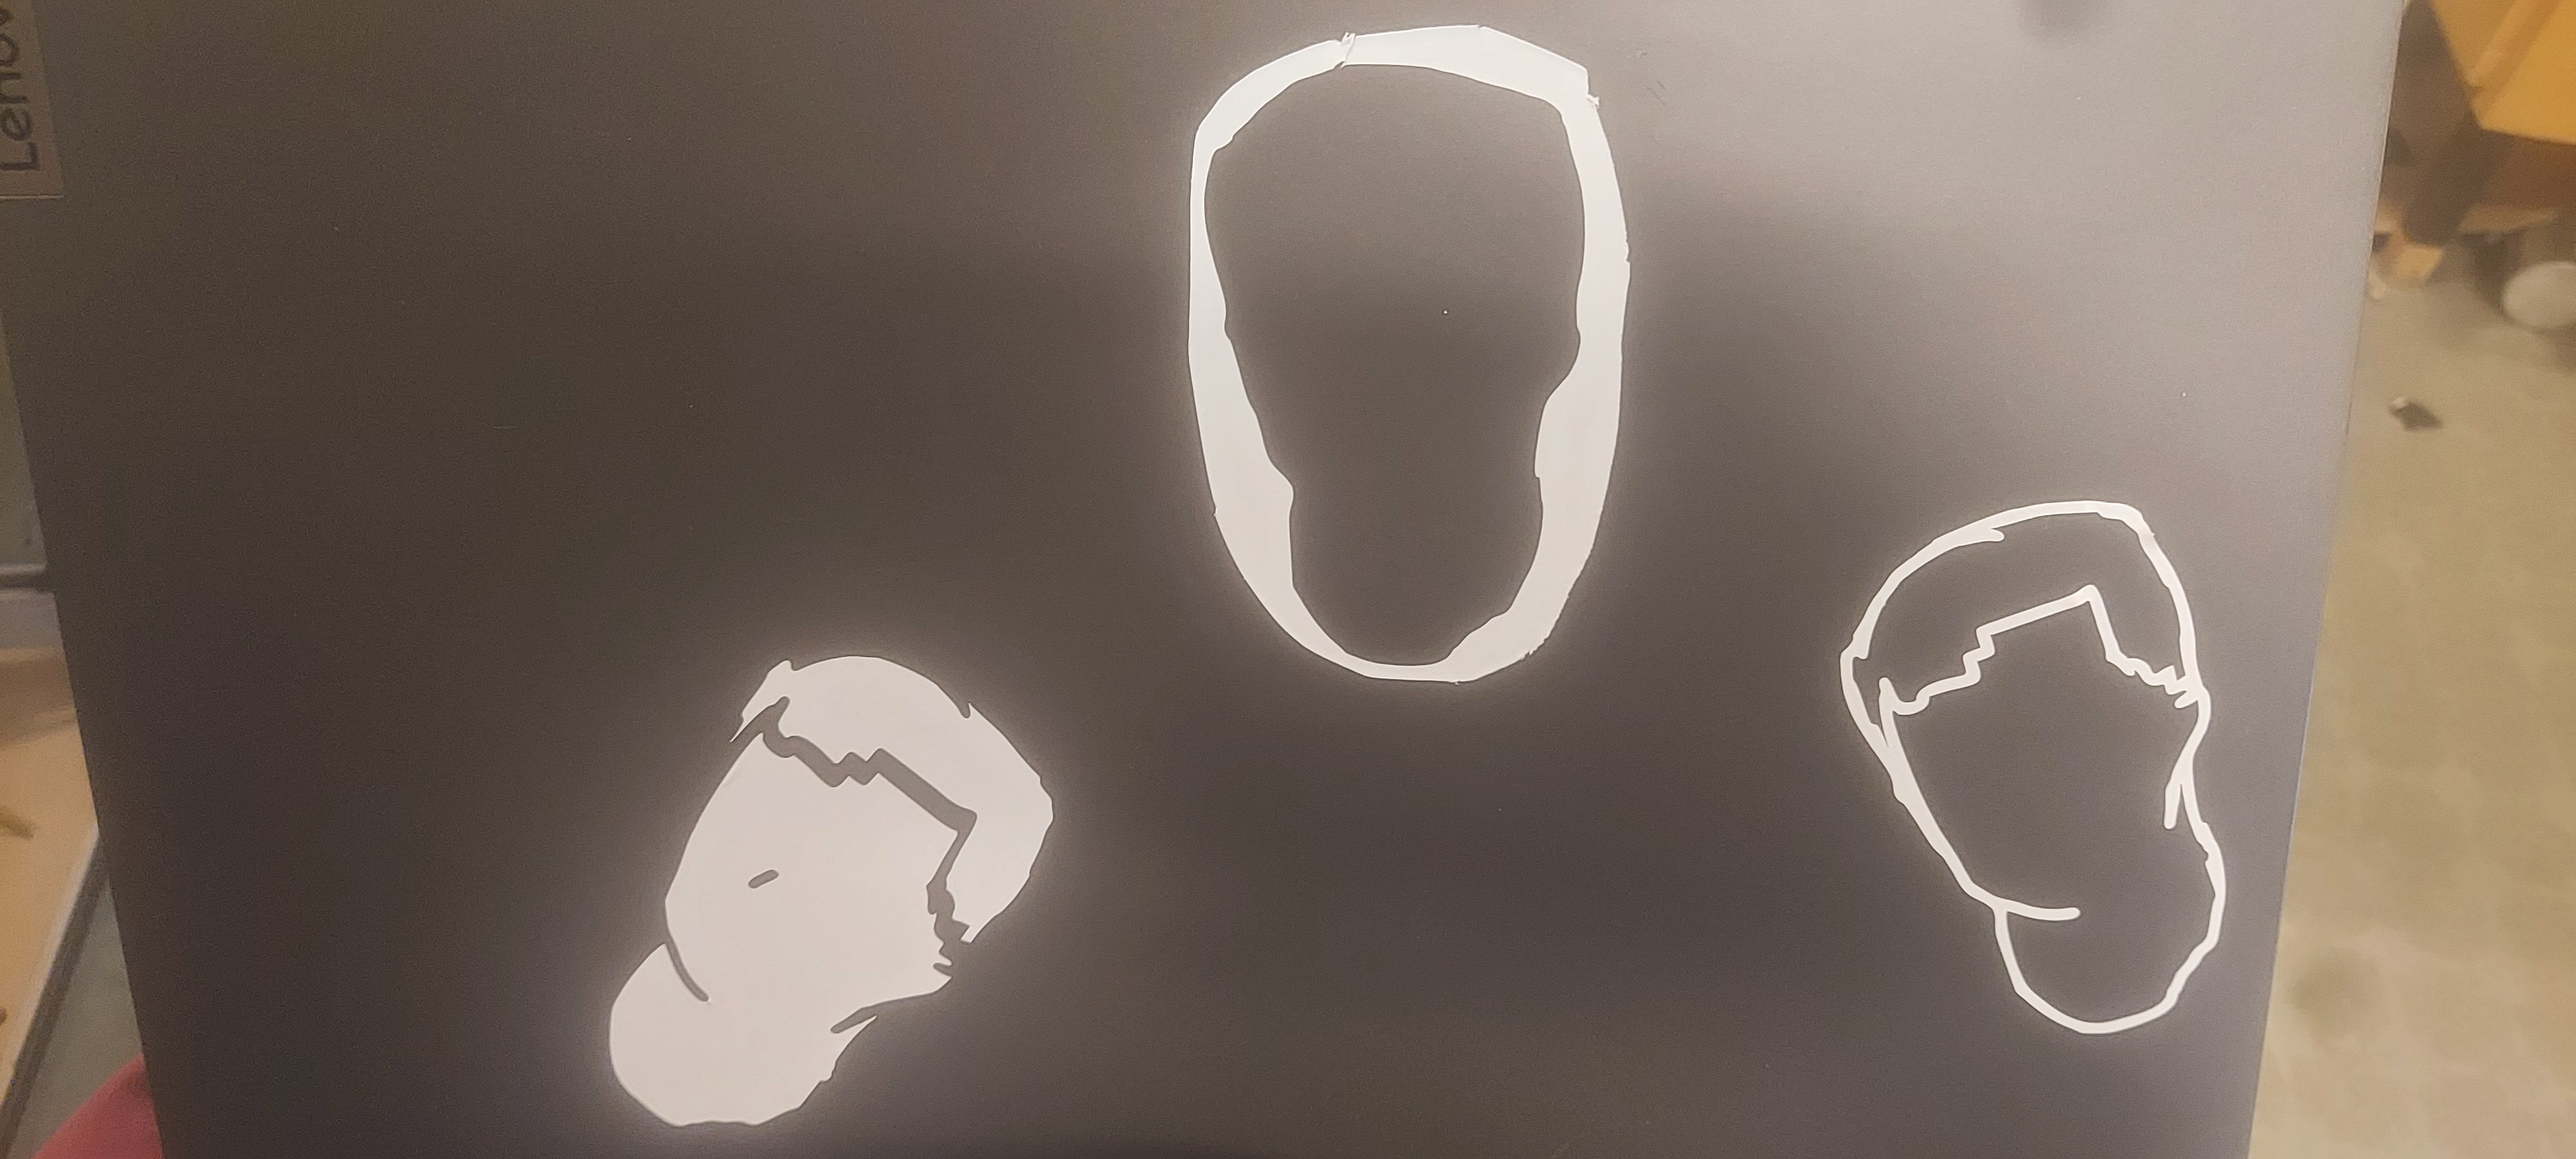
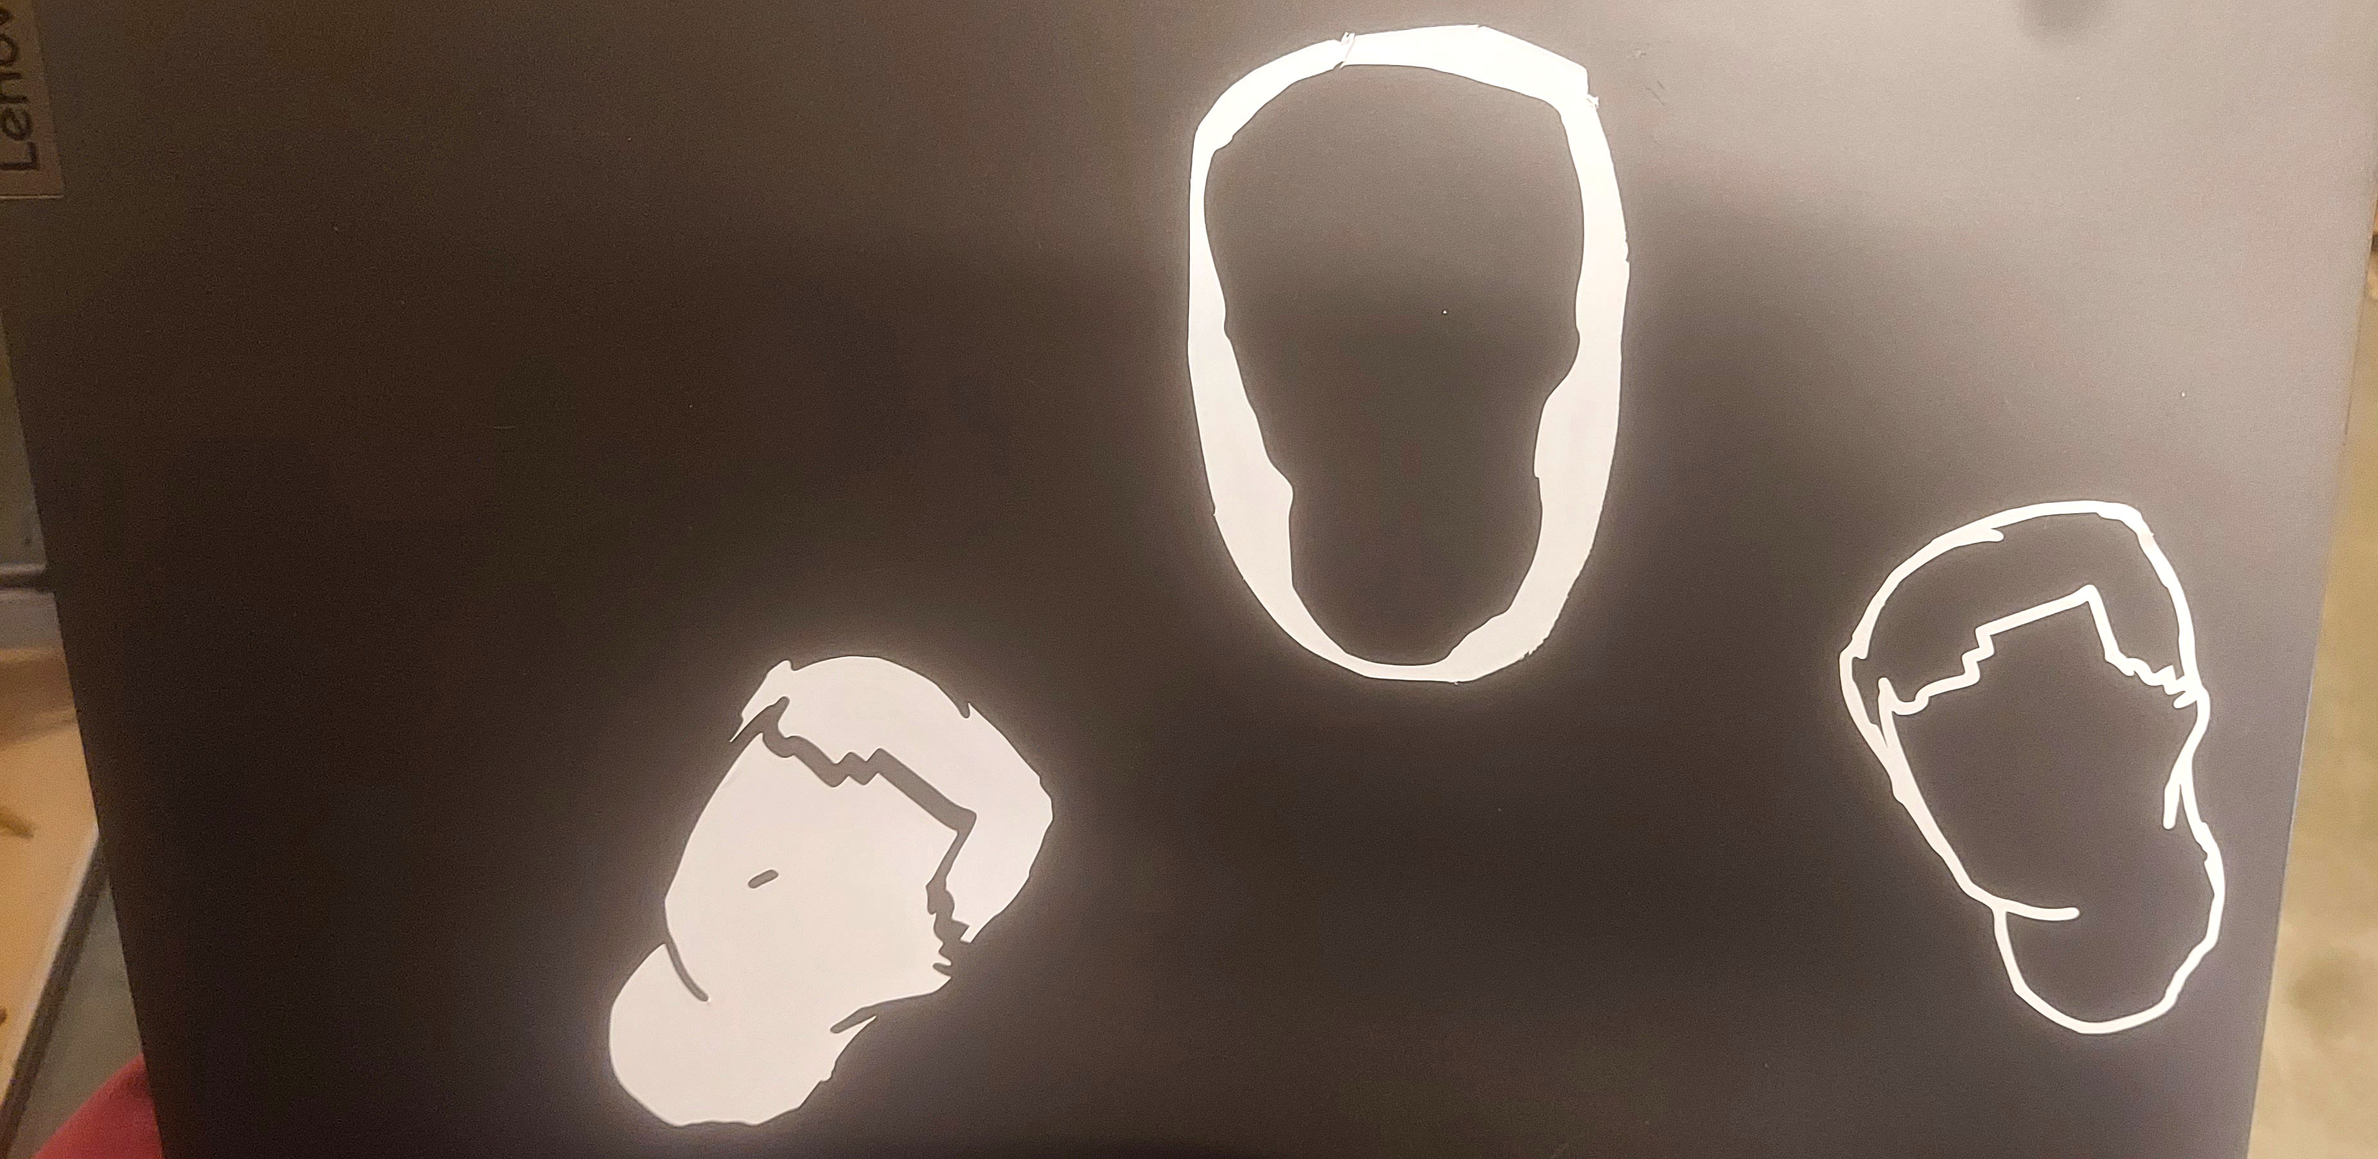
Verkefni 2 fyrir haflida buid

diff --git a/src/app/verkefni/vel608g/verkefni2/page.tsx b/src/app/verkefni/vel608g/verkefni2/page.tsx
@@ -26,14 +26,129 @@ export default function Page() {
 				eitt né neitt. Hvað standa þeir fyrir og stend ég með því? Svari hver fyrir sig en að líma min eigin límmiða.
 				Það get ég og nú hef ég gert. Takk fyrir mig.
 			</p>
-			<h2></h2>
-			{/* <figure className={styles.synidmi}>
-				<image
-					src="https://fab.cba.mit.edu/classes/863.21/EECS/people/jan/images/0_joints.png"
-					alt="Mynd sem sýnir gerðir af press fit fyrir laserskornar plötur"
+			<figure className={styles.synidmi}>
+				<Image
+					src={"/vel608g/v2_limmidi.jpg"}
+					alt="Mynd sem sýnir límmiðanna á fartölvunni minni."
+					height={520}
+					width={800}
 				/>
-			</figure> */}
-		</section>
+			</figure>
+			<h2>Parametrísk hönnun fyrir pressfit</h2>
+			Verkefnið felst í því að hanna þrívíðan hlut sem á að vera settur saman með pressfit tengingum. Á að minnstakosti þrem
+			stöðum og helst með þrem mismunandi gerðum af tengingum. Hönnunin þarf að vera parametrískt því þykkt plötu sem á að notast
+			við í pressfitinu er breytileg og hefur það áhrif á festingarnar sem notast við þykktina.
+			<h3>Hvað er pressfit</h3>
+			Pressfit er tenging sem helst saman að mestu úr núningi og spennu. Ég fann mynd af netinu þar sem sýnt er mynd af mismunandi
+			pressfit tengingum.
+			<figure className={styles.synidmi}>
+				<Image
+					src={"/vel608g/0_joints.jpg"}
+					alt="Mynd sem sýnir gerðir af press fit fyrir laserskornar plötur"
+					height={520}
+					width={800}
+				/>
+				<figcaption><a href="https://fab.cba.mit.edu/classes/863.21/EECS/people/jan/images/0_joints.png">Gerðir af pressfitum.</a></figcaption>
+			</figure>
+			Af myndinni valdi ég að nota press-fit, finger og wedge tengingarnar.
+			<h3>Hönnuninn</h3>
+			Mig vantar eitthvað til að henga herða tré á til að geyma hinar ýmsu flíkur í loftinu.
+			Með það til hliðsjónar að við þurfum að hafa þrjá tengi punkta og helst þrjár mismunandi tengingar.
+			Hanna ég einhverskonar hangi apparat úr 4 teikningum með tengingunum sem ég valdi af fyrri mynd.
+			<figure className={styles.synidmi}>
+				<Image
+					src={"/vel608g/paragif.gif"}
+					alt="Gif sem sýnir teikningar og hluti í fusion"
+					height={520}
+					width={800}
+				/>
+				<figcaption>Teikningar fyrir samsetningu</figcaption>
+			</figure>
+			<figure className={styles.synidmi}>
+				<Image
+					src={"/vel608g/parametrar.png"}
+					alt="Mynd sem sýnir parametra notkun í teikningum"
+					height={520}
+					width={800}
+				/>
+				<figcaption><a href="https://www.youtube.com/watch?v=yhHhSVoL1RQ&t=2s">Notkun á parametrum í teikningum.</a></figcaption>
+			</figure>
+			Ég passaði að hafa allar lengdir byggðar á parametrum. Til að fá svo DXF úr fusion með tilliti til kerfsins sem
+			ég fann notaðist ég við <a href="https://www.youtube.com/watch?v=D1Btaqhog9E">myndband frá fablab akureyri</a>
+			<figure className={styles.synidmi}>
+				<Image
+					src={"/vel608g/lasercut.png"}
+					alt="Mynd sem sýnir íhluti samsetningarnar lagaðar út."
+					height={520}
+					width={800}
+				/>
+				<figcaption>Íhlutum raðar fyrir leiser skurð.</figcaption>
+			</figure>
+			Þegar ég var komin með útlínurnar af íhlutunum í inkscape þurfti ég bara að stilla document properties í 500mm*500mm.
+			Setja line thickness sem 0.02 og ýta á ctrl+p fyrir print. Þá þurfti að kveikja á gasinu og skera út hlutin.
+			<figure className={styles.synidmi}>
+				<Image
+					src={"/vel608g/skorid.jpg"}
+					alt="Mynd sem sýnir plötu sem er búið að skera þrisvar úr"
+					height={520}
+					width={800}
+				/>
+				<figcaption>Fyrirgefðu gamli.</figcaption>
+			</figure>
+			Ég er víst ekki nógu lúnkinn með skífumæli eða plöturnar eru ekki jafn þykkar, þú ræður. En eftir að reyna að setja allt saman
+			þrisvar og mæla þykktina á plötunni í hvert skipti þá komst ég að því að einfaldast er að setja saman finger tengingar. Þær eru
+			ekki mjög næmar fyrir þykkt plötunar. Bestu tenginarnar voru pressfit og einnig hægt að koma þeim saman en þó næmar fyrir þykktinni.
+			Wedge tenging voru svoddan mistök og er hún gífurlega næm fyrir mælingum á þykkt. Skiljan lega þar sem þú ert að stinga í gegnum tvö göt
+			sem eru bæði með þykktina sem parameter. Eftir að gera þrjár tilraunir með 3.7mm,3.10mm og 3mm. 3mm passaði allra best saman en þó þurfti
+			ég að nota litlu bútana úr fyrri til að gera wedge tenginguna.
+			<figure className={styles.synidmi}>
+				<Image
+					src={"/vel608g/hangiHaflidi.jpg"}
+					alt="Mynd sem sýnir hangi hönnun hanga á tölvu"
+					height={520}
+					width={800}
+				/>
+				<figcaption>Þetta hengur á tölvu.</figcaption>
+			</figure>
+			Ég var búin að mæla þykktina á skápa hurðinni heima og var með það sem parameter, vonandi passar það líka.
+			<figure className={styles.synidmi}>
+				<Image
+					src={"/vel608g/hangiheima.jpg"}
+					alt="Mynd sem sýnir hangi hönnun hanga á tölvu"
+					height={520}
+					width={800}
+				/>
+				<figcaption>Hangir á hurð með herðatré.</figcaption>
+			</figure>
+			Þetta virkar en langi hlutinn sem hengur út fremst er hálf ónothæfur best væri að snúa flippanum sem er nær til að hengja á.
+			Það sem er lengra frá er svo langt frá hurðinni að það myndar svo mikið vægi að það heldur engu uppi.
+			Svona gerist þegar maður hannar fyrir fjölda tenginga en ekki út frá notkunar gildi. You life and you learn.
+			<a href="https://www.thingiverse.com/thing:6541066">Sækja model frá thingiverse</a>
+			<h2>Kerf mælingarnar</h2>
+			<figure className={styles.synidmi}>
+				<Image
+					src={"/vel608g/kerfb.jpg"}
+					alt="Mynd 1 af kerfmælingum"
+					height={520}
+					width={800}
+				/>
+				<Image
+					src={"/vel608g/kerfbb.jpg"}
+					alt="Mynd 2 af kerfmælingum"
+					height={520}
+					width={800}
+				/>
+				<Image
+					src={"/vel608g/kerfbbb.jpg"}
+					alt="Mynd 3 af kerfmælingum"
+					height={520}
+					width={800}
+				/>
+				<figcaption>Kerfmælingar</figcaption>
+			</figure>
+			Til að finna kerfið sem er í raun breiddin á leisernum þurfum við að mæla muninn á gatinu og bitanu sem kemur út úr gatinu eftir skurðin.
+			það er efnið sem laserinn er að skjóta í burtu. Eftir miklar ádeilur var niðurstaðan sú að kerfið var 0.15 og notaðist ég við það í leiserskurðinum hér að ofan
+		</section >
 
 
 	</>
